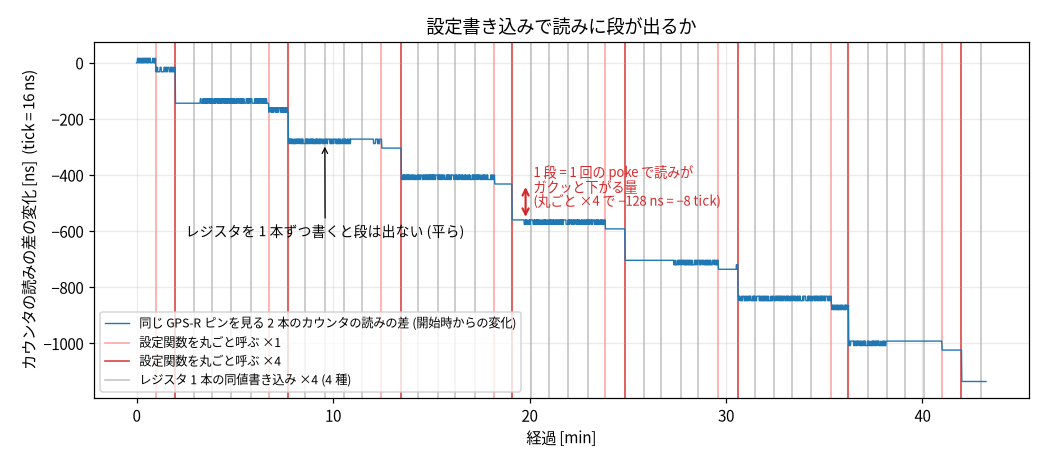
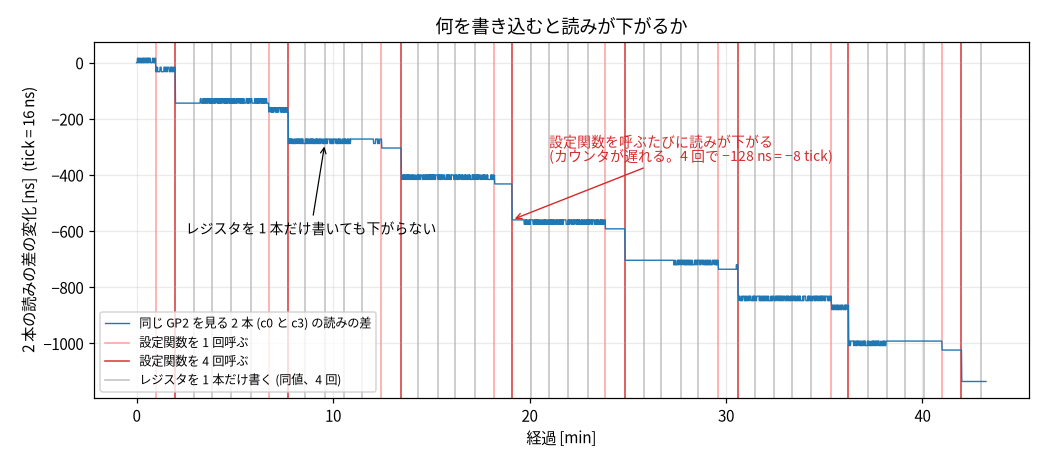
docs(precision): 「段」「丸ごと呼ぶ」「×1/×4」を平易な表現に置換
「1 段という語を定義せず平易に / 丸ごと呼ぶとは / ×1・×4 とは」への対応。
- fig-kpoke-poke: 「1 段=…」定義を廃止し「設定関数を呼ぶたびに読みが下がる
  (カウンタが遅れる)」に。凡例を「設定関数を 1 回/4 回呼ぶ」「レジスタを 1 本
  だけ書く」に (丸ごと・×1/×4 を廃止)。タイトル「何を書き込むと読みが下がるか」
- 本文の「丸ごと呼ぶ」→「呼ぶ」、「段が出る/段なし」→「下がる/下がらない」
- fig-kexp-setup の「−4 tick の段」→「−4 tick 下がる」、caption の「この段」→「これ」

Claude-Session: https://claude.ai/code/session_01QA3SZ4k1hmnnVeG51UZWBZ

diff --git a/docs/report/precision-ladder/README.md b/docs/report/precision-ladder/README.md
@@ -211,7 +211,7 @@ PLL を入れると内部の loopback 位相は 0 付近に寄る。ただ、内
 
 切り分けには観測を 1 本足すのが早い。PIO には捕捉プログラムを走らせられる枠が 1 本余っているので、3 本目のカウンタを GPS-R のピンへ常時向け、既存の 2 本と合わせて 3 つの読みを毎秒すべてログしながら 2.4 時間流す。オシロも並走させて、ピンの上の真値と突き合わせる。同じピンを見る 2 本の差が動けばカウンタごとの癖で、動かなければ残りの 2 つに絞れる。
 
-![まず 3 本目を足して見張る実験。上: 3 本のカウンタと各自が見るピン。c2 は校正のとき一瞬 GP2 へ切り替わる (これが「校正での切り替え」)。下: 見張った 2 つの差の 2.4 時間 (実測)。同じ GP2 を見て切り替わらない c0 − c3 は平坦 (±2 tick) で 2 本は離れない (カウンタごとの癖もなし)、c0 − c2 は校正のたびに −4 tick 下がり 2.4h で −228 tick。この段はピンには出ない](precision-figs/fig-kexp-setup.png)
+![まず 3 本目を足して見張る実験。上: 3 本のカウンタと各自が見るピン。c2 は校正のとき一瞬 GP2 へ切り替わる (これが「校正での切り替え」)。下: 見張った 2 つの差の 2.4 時間 (実測)。同じ GP2 を見て切り替わらない c0 − c3 は平坦 (±2 tick) で 2 本は離れない (カウンタごとの癖もなし)、c0 − c2 は校正のたびに −4 tick 下がり 2.4h で −228 tick。これはピンには出ない](precision-figs/fig-kexp-setup.png)
 
 この第一歩は、3 本目をただ足して見張るだけだ。狙いどおりに切り分けられた。同じ GP2 を見る c0 − c3 は、2.4 時間ずっと平坦で (傾き 0.000 ns/min、残るは量子化の ±1 tick だけ)、カウンタごとの癖は無罪になった (同じものを見る 2 本は完全に歩調を合わせたまま)。しかもスリップの本体 c0 − c2 の −4 tick は、オシロで見るピンの上には出ない (2.4 時間平坦、傾き −0.006 ns/min)。ピンに出ないのだから、波形依存のように本物のドリフトが溜まっているのではなく、校正の切り替えが内部の読みにだけ作る見かけだ。実際この −4 tick は毎回ほぼ一定で (56 回中 42 回がぴったり) 温度とも無相関、連続ドリフトではなく校正 1 回ごとの固定量だった。切り替えが作り、次の校正が測り直して自分で打ち消す。こうして犯人は校正の切り替えに絞れた。
 
@@ -240,23 +240,23 @@ loop {
 
 本物の立ち上がりは 1 秒に 1 回だから、捕捉で X が止まる数サイクルは全カウンタで同じで、差を取れば消える。ところが校正の切り替えがこのプログラムを top へ飛ばすのは、エッジ処理の直後、パルスがまだ high の最中だ。pin はもう high なので「立ち上がり待ち」を素通りして即「捕捉」に入り、同じパルスをもう一度積んでしまう (偽の捕捉)。この強制ジャンプと偽の捕捉のあいだ X が止まる 4 サイクル、1 tick は 2 サイクルだから、切り替え 1 回あたりちょうど 2 tick 取りこぼす。これが立てた仮説だ。
 
-仮説が正しいなら、確かめられる予言が 2 つ出る。tick を奪うのは設定関数の最後の強制ジャンプなので、レジスタを 1 本ずつ同じ値で書き直すだけでは段は出ず、設定関数を丸ごと呼んだときだけ 2 tick 下がるはずだ。もう 1 つ、偽の捕捉のぶん、FIFO に 1 個余分に積まれるはずだ。
+仮説が正しいなら、確かめられる予言が 2 つ出る。tick を奪うのは設定関数の最後の強制ジャンプなので、レジスタを 1 本ずつ同じ値で書くだけでは読みは下がらず、設定関数を呼んだときだけ 2 tick 下がるはずだ。もう 1 つ、偽の捕捉のぶん、FIFO に 1 個余分に積まれるはずだ。
 
-確かめ方は第一歩と同じ 3 本目を使う。ただし今度は見張るのではなく、この設定関数を、ふだん切り替わらない 3 本目にわざと打ち込む (純観測なので何をしても制御に響かない)。設定関数を丸ごと呼ぶ場合と、レジスタを 1 本ずつ同じ値で書き直す場合とを打ち分けて、c0 − c3 に段が出るかを見る。
+確かめ方は第一歩と同じ 3 本目を使う。ただし今度は見張るのではなく、この設定関数を、ふだん切り替わらない 3 本目にわざと打ち込む (純観測なので何をしても制御に響かない)。設定関数を呼ぶ場合と、レジスタを 1 本だけ同じ値で書く場合とを打ち分けて、c0 − c3 が下がるかを見る。
 
-![予言の検証。設定関数を丸ごと呼ぶと 4 回で計 −128 ns の段が下がり、レジスタ単体の同値書き込みではどれも動かない](precision-figs/fig-kpoke-poke.png)
+![予言の検証。設定関数を呼ぶたびに読みが下がり (4 回呼ぶと −128 ns = −8 tick)、レジスタを 1 本だけ書いても下がらない](precision-figs/fig-kpoke-poke.png)
 
-予言どおりに割れた。レジスタを 1 本ずつ書いてもどのレジスタでも段は出ず、設定関数を丸ごと呼んだときだけ、1 回につきちょうど 2 tick 下がった。偽の捕捉で積まれる余分な 1 個も、FIFO にそのまま出ていた。定期校正は GP2 へ向ける切り替えと GP4 へ戻す切り替えで 2 回起きるので、1 回の校正あたり −4 tick になる。
+予言どおりに割れた。レジスタを 1 本だけ書いてもどれも下がらず、設定関数を呼んだときだけ、1 回につきちょうど 2 tick 下がった。偽の捕捉で積まれる余分な 1 個も、FIFO にそのまま出ていた。定期校正は GP2 へ向ける切り替えと GP4 へ戻す切り替えで 2 回起きるので、1 回の校正あたり −4 tick になる。
 
 この機構は、+33 ns の固定のズレの正体でもあった。校正は起動時も定期も、カウンタのズレを測り終えてから出力側のピンへ切り替えて戻る。この戻しの切替で失う 2 tick (32 ns) は、いま測ったばかりのズレには入っていない。次の校正まではそのズレのまま制御し、制御は loopback 位相を 0 に保つから、ズレに入らなかった 32 ns はそのままピンの上へ押し出される。どの校正の直後も同じだけ取りこぼすので、出力は常に +32 ns 側へ座り続ける。配線やプローブの遅れと考えていた +33 ns は、ほぼまるごとこの取りこぼしだった。
 
-直し方は、実験がそのまま教えてくれる。切替のときに設定を丸ごと書き直すのをやめ、どのピンを見るかのレジスタフィールドだけを書き換える。
+直し方は、実験がそのまま教えてくれる。切替のときに設定関数を呼ぶのをやめ、どのピンを見るかのレジスタフィールドだけを書き換える。
 
 ```text
 sm.execctrl().modify(|w| w.set_jmp_pin(GP2));  // 見るピン (EXECCTRL の一部) だけ書く。exec_jmp は起きない
 ```
 
-設定関数を通さずレジスタを直接書くだけなら段が出ないことは、上の実験で確認済みだ。1 時間の検証で、定期校正が測るズレは 23 回中 20 回が −1 tick になり、ぴったり −4 は消えた。ピンの上の中心も、修正直前の計測の +46 ns (中心そのものがゆっくりゆらぐので、窓の取り方で +33〜+46 ns を動く) から +9 ns へ動いた。移動量の約 37 ns は、取りこぼしていた 32 ns と、このゆらぎの誤差の範囲で一致する。ここまでの節で +33 ns と書いてきた中心は、この修正のあとは +9 ns 前後になる。
+設定関数を通さずレジスタを直接書くだけなら読みは下がらないことは、上の実験で確認済みだ。1 時間の検証で、定期校正が測るズレは 23 回中 20 回が −1 tick になり、ぴったり −4 は消えた。ピンの上の中心も、修正直前の計測の +46 ns (中心そのものがゆっくりゆらぐので、窓の取り方で +33〜+46 ns を動く) から +9 ns へ動いた。移動量の約 37 ns は、取りこぼしていた 32 ns と、このゆらぎの誤差の範囲で一致する。ここまでの節で +33 ns と書いてきた中心は、この修正のあとは +9 ns 前後になる。
 
 ![切替修正の前後。左: 定期校正 1 回あたりのカウンタのズレの測り直し量は −4 tick 中心から −1 tick 中心になる。右: ピンの上のズレの中心は +46 ns から +9 ns へ動く](precision-figs/fig-kslip-fix.png)
 
